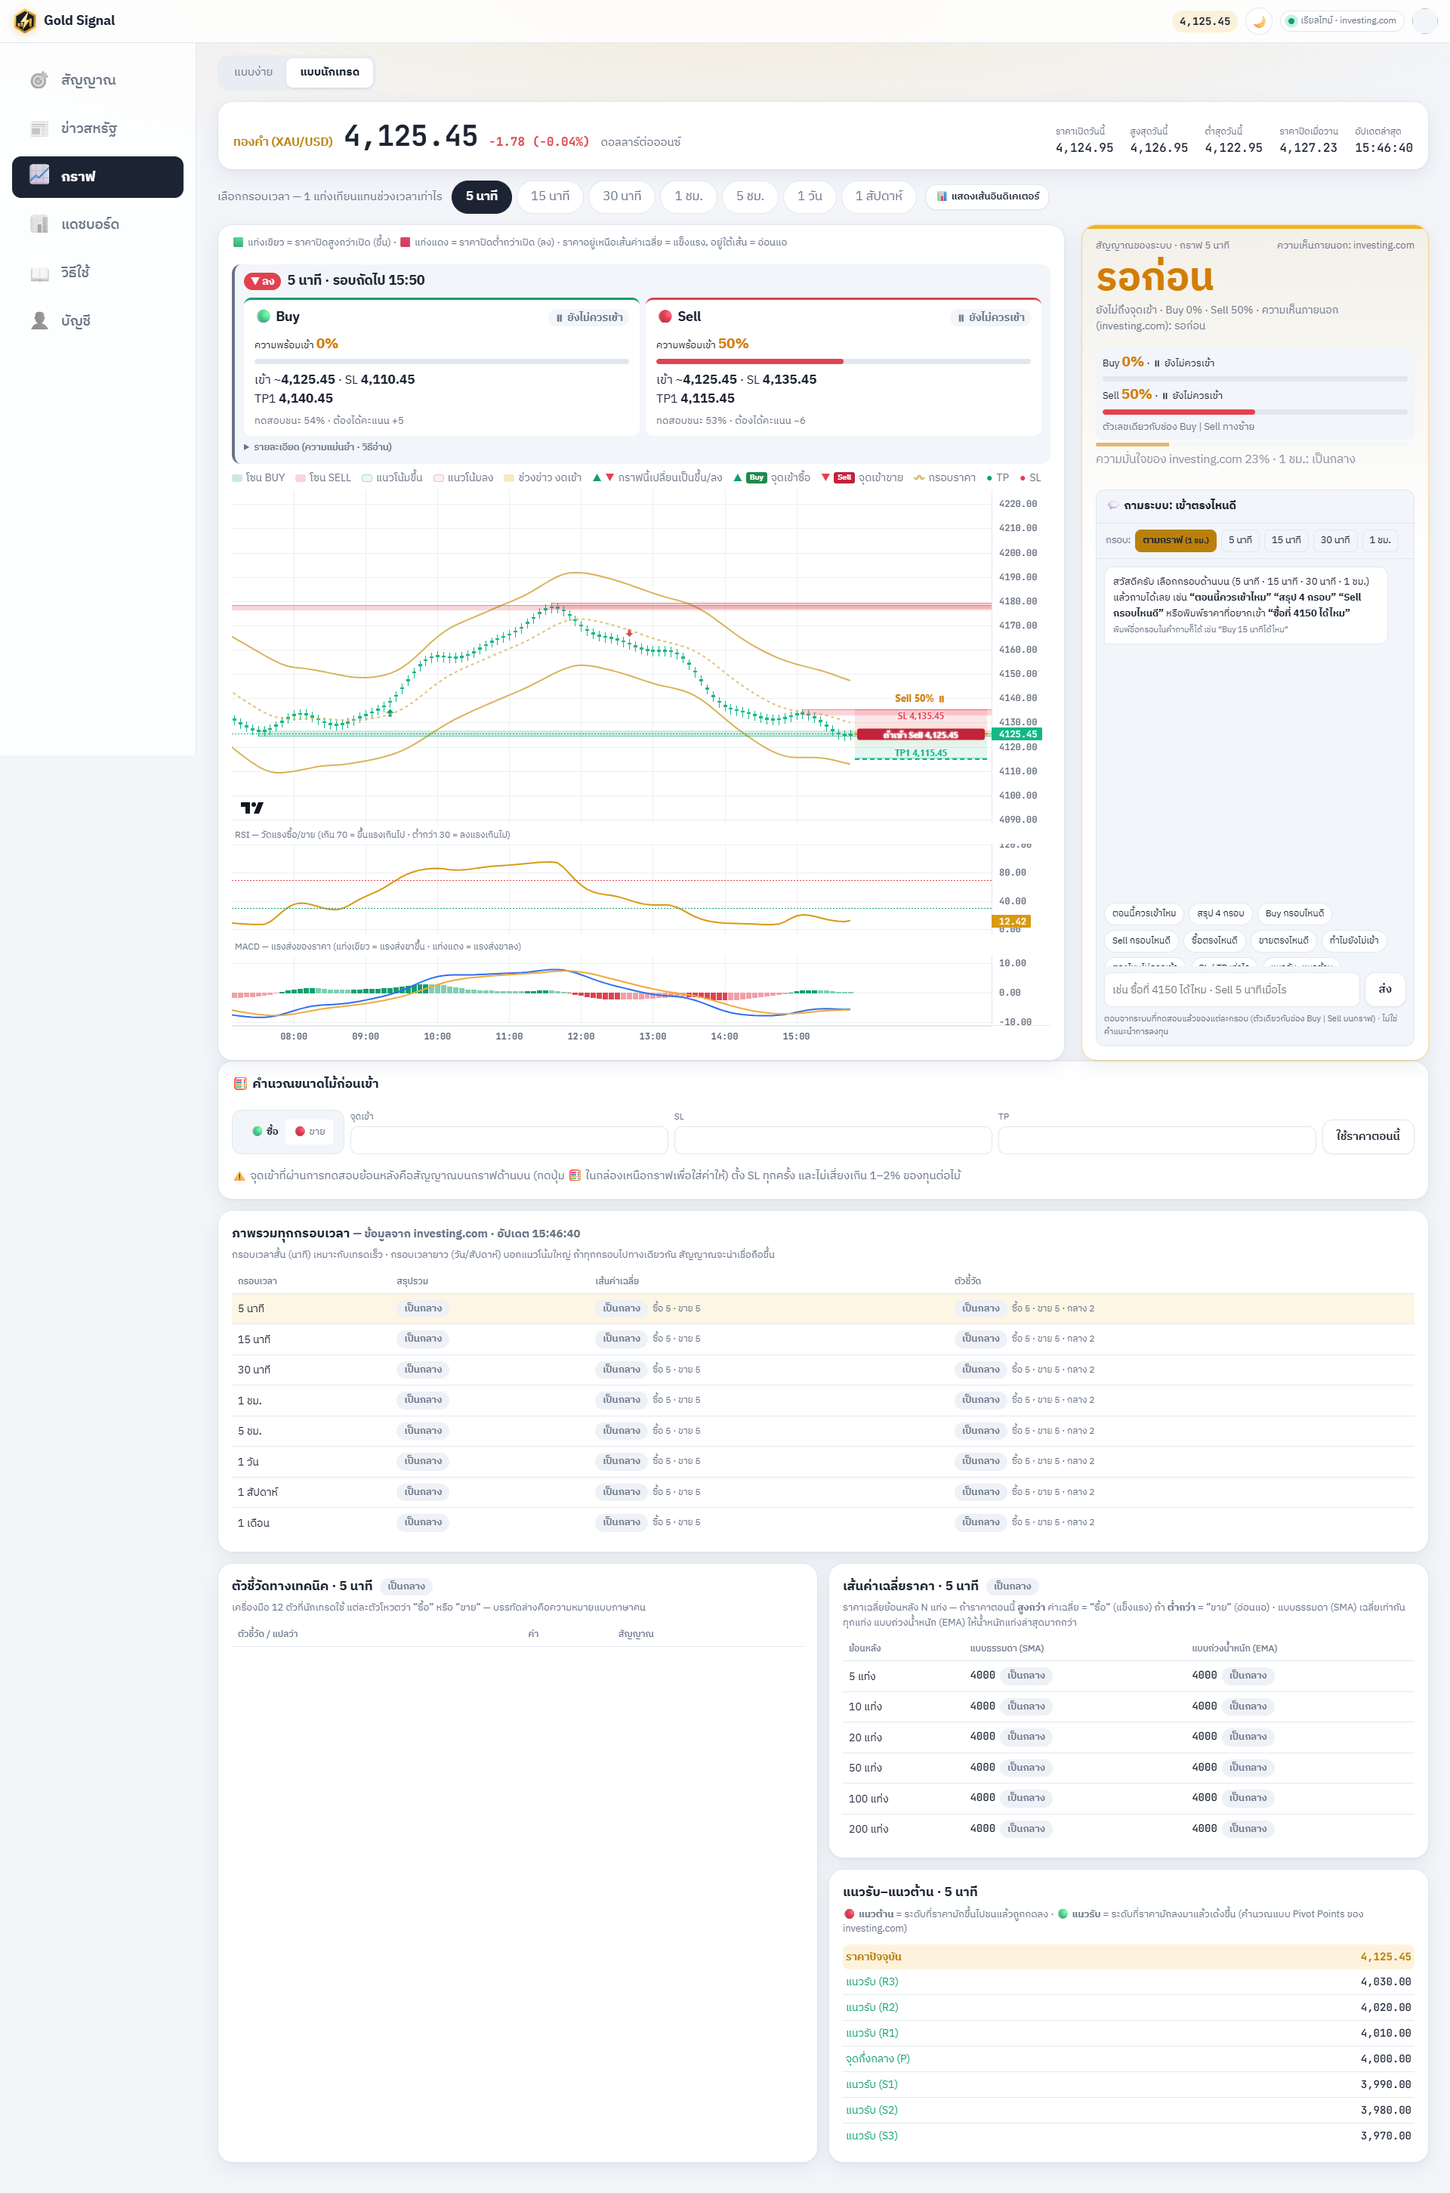
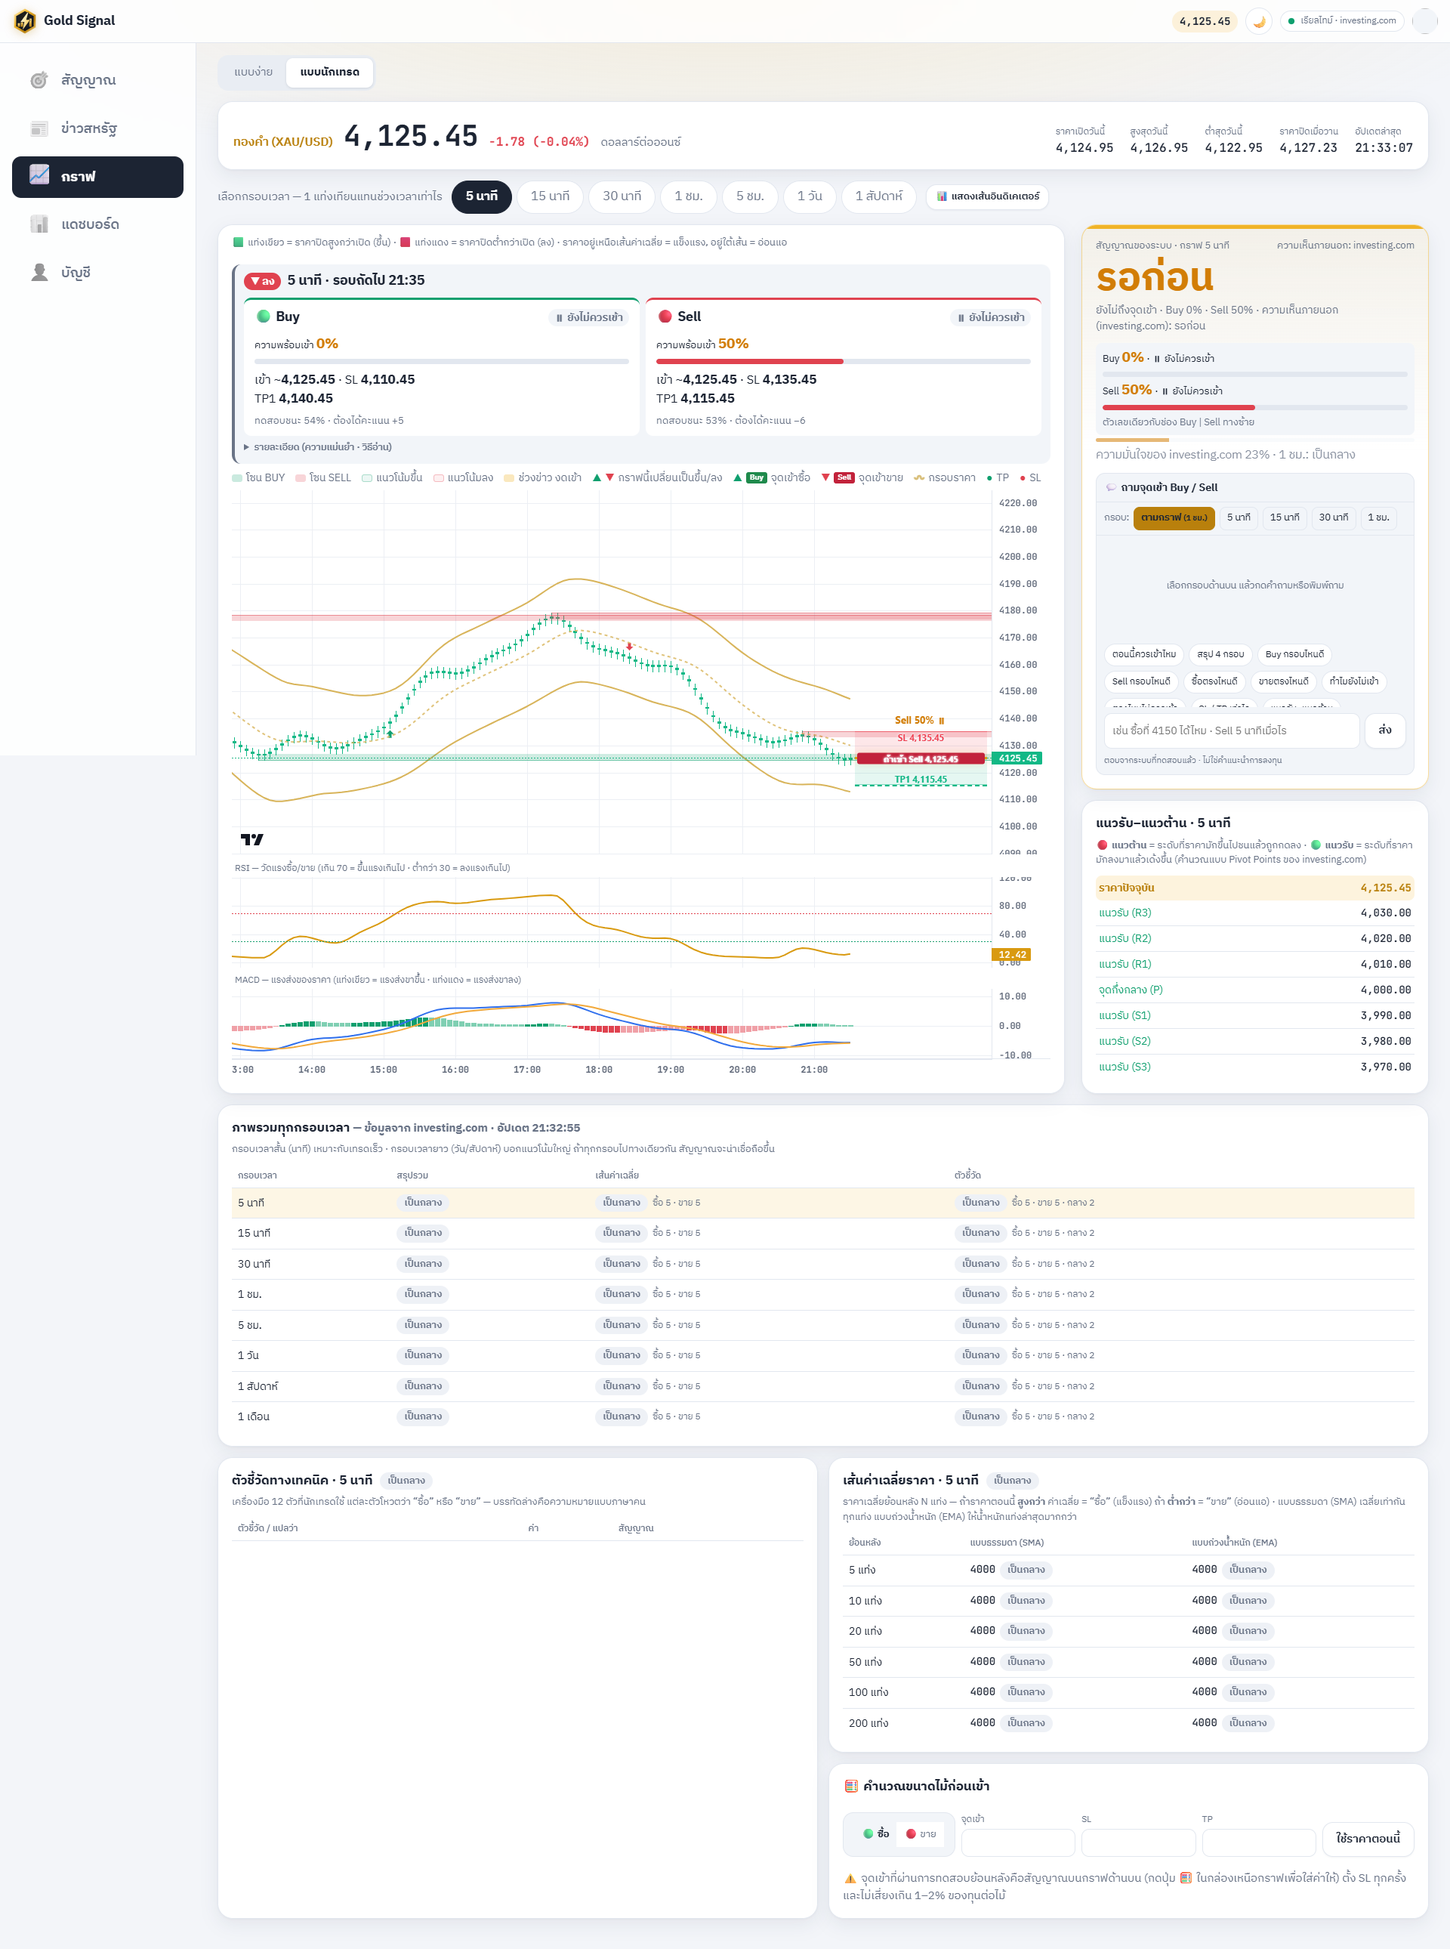
Compact chart chat (no greeting, 400px); support/resistance back under the signal card, lot calculator under moving averages

diff --git a/index.html b/index.html
@@ -17,7 +17,7 @@
   <meta name="apple-mobile-web-app-status-bar-style" content="black-translucent">
   <link rel="preconnect" href="https://fonts.googleapis.com">
   <link href="https://fonts.googleapis.com/css2?family=IBM+Plex+Sans+Thai:wght@400;500;600;700&family=JetBrains+Mono:wght@500;700&display=swap" rel="stylesheet">
-  <link rel="stylesheet" href="style.css?v=202610122600">
+  <link rel="stylesheet" href="style.css?v=202610122700">
   <link rel="stylesheet" href="live.css?v=202610121500">
   <link rel="stylesheet" href="theme.css?v=202610121500" id="themeLight">
   <script>/* apply the saved theme before the first paint */ try { if (localStorage.getItem("gs-theme") === "dark") { document.getElementById("themeLight").disabled = true; document.querySelector("meta[name=theme-color]").content = "#0d1016"; } } catch (e) {}</script>
@@ -361,22 +361,13 @@
           <ul class="reasons" id="reasons" hidden></ul>
           <ul class="reasons warn" id="warns" hidden></ul>
         </section>
+        <section class="card">
+          <h3>แนวรับ–แนวต้าน · <span id="pvTf">—</span></h3>
+          <p class="hint">🔴 <b>แนวต้าน</b> = ระดับที่ราคามักขึ้นไปชนแล้วถูกกดลง · 🟢 <b>แนวรับ</b> = ระดับที่ราคามักลงมาแล้วเด้งขึ้น (คำนวณแบบ Pivot Points ของ investing.com)</p>
+          <ul class="levels" id="levels"></ul>
+        </section>
       </aside>
     </main>
-
-    <!-- Lot calculator (moved here from the signals tab, 8 Oct; the chart's 🧮 button fills it) -->
-    <section class="card tp calc-card" id="calcCard">
-      <h3>🧮 คำนวณขนาดไม้ก่อนเข้า</h3>
-        <div class="tp-calc" id="tpCalc">
-          <div class="tp-side"><button type="button" class="on" data-side="1">🟢 ซื้อ</button><button type="button" data-side="-1">🔴 ขาย</button></div>
-          <label>จุดเข้า<input id="cEntry" type="number" step="0.01" inputmode="decimal"></label>
-          <label>SL<input id="cSl" type="number" step="0.01" inputmode="decimal"></label>
-          <label>TP<input id="cTp" type="number" step="0.01" inputmode="decimal"></label>
-          <button type="button" class="btn" id="cNow">ใช้ราคาตอนนี้</button>
-          <div class="tp-calc-out" id="cOut"></div>
-        </div>
-        <p class="muted small tp-note">⚠ จุดเข้าที่ผ่านการทดสอบย้อนหลังคือสัญญาณบนกราฟด้านบน (กดปุ่ม 🧮 ในกล่องเหนือกราฟเพื่อใส่ค่าให้) ตั้ง SL ทุกครั้ง และไม่เสี่ยงเกิน 1–2% ของทุนต่อไม้</p>
-    </section>
 
     <section class="card wide-card">
       <h3>ภาพรวมทุกกรอบเวลา <span class="muted small">— ข้อมูลจาก investing.com · <span id="techTime">—</span></span></h3>
@@ -398,7 +389,8 @@
           <tbody></tbody>
         </table>
       </section>
-      <!-- right column: moving averages + support / resistance (moved from the side, 12 Oct: "ทำให้สมดุล ไม่เว้นช่องว่าง") -->
+      <!-- right column: moving averages + lot calculator (12 Oct: the chat in the side card got compact, so support /
+           resistance went back to the side column and the calculator sits here — both rows stay level) -->
       <div class="side">
         <section class="card">
           <h3>เส้นค่าเฉลี่ยราคา · <span class="tfName">—</span> <span class="tag" id="maSum"></span></h3>
@@ -408,10 +400,18 @@
             <tbody></tbody>
           </table>
         </section>
-        <section class="card">
-          <h3>แนวรับ–แนวต้าน · <span id="pvTf">—</span></h3>
-          <p class="hint">🔴 <b>แนวต้าน</b> = ระดับที่ราคามักขึ้นไปชนแล้วถูกกดลง · 🟢 <b>แนวรับ</b> = ระดับที่ราคามักลงมาแล้วเด้งขึ้น (คำนวณแบบ Pivot Points ของ investing.com)</p>
-          <ul class="levels" id="levels"></ul>
+        <!-- Lot calculator (the chart's 🧮 button fills it and scrolls here) -->
+        <section class="card tp calc-card" id="calcCard">
+          <h3>🧮 คำนวณขนาดไม้ก่อนเข้า</h3>
+            <div class="tp-calc" id="tpCalc">
+              <div class="tp-side"><button type="button" class="on" data-side="1">🟢 ซื้อ</button><button type="button" data-side="-1">🔴 ขาย</button></div>
+              <label>จุดเข้า<input id="cEntry" type="number" step="0.01" inputmode="decimal"></label>
+              <label>SL<input id="cSl" type="number" step="0.01" inputmode="decimal"></label>
+              <label>TP<input id="cTp" type="number" step="0.01" inputmode="decimal"></label>
+              <button type="button" class="btn" id="cNow">ใช้ราคาตอนนี้</button>
+              <div class="tp-calc-out" id="cOut"></div>
+            </div>
+            <p class="muted small tp-note">⚠ จุดเข้าที่ผ่านการทดสอบย้อนหลังคือสัญญาณบนกราฟด้านบน (กดปุ่ม 🧮 ในกล่องเหนือกราฟเพื่อใส่ค่าให้) ตั้ง SL ทุกครั้ง และไม่เสี่ยงเกิน 1–2% ของทุนต่อไม้</p>
         </section>
       </div>
     </section>
@@ -520,6 +520,6 @@
   <script src="chartsys.js?v=202610121500"></script>
   <script src="chartzones.js?v=202610122200"></script>
   <script src="newsstats.js?v=202610121500"></script>
-  <script src="chartchat.js?v=202610122100"></script>
+  <script src="chartchat.js?v=202610122700"></script>
 </body>
 </html>

diff --git a/style.css b/style.css
@@ -632,10 +632,10 @@ details.ns-item[open] .ns-open { color: #d99a10; border-color: rgba(240,180,41,.
 .ns-next .ns-open { color: rgba(243,245,249,.8); border-color: rgba(255,255,255,.25); }
 
 /* Chart Q&A chat (chartchat.js) — inside the chart's signal card (simple view: a card under the chart) */
-.cc-panel { margin-top: 14px; display: flex; flex-direction: column; height: 520px; background: var(--panel-2); border: 1px solid var(--line); border-radius: 12px; overflow: hidden; }
+.cc-panel { margin-top: 12px; display: flex; flex-direction: column; height: 400px; background: var(--panel-2); border: 1px solid var(--line); border-radius: 12px; overflow: hidden; }
 .cc-panel.cc-under { margin-top: 16px; background: var(--panel); border-radius: var(--radius); }
-.cc-head { display: flex; align-items: center; gap: 8px; padding: 10px 12px; border-bottom: 1px solid var(--line); }
-.cc-head b { flex: 1; font-size: 15px; }
+.cc-head { display: flex; align-items: center; gap: 8px; padding: 8px 10px; border-bottom: 1px solid var(--line); }
+.cc-head b { flex: 1; font-size: 14px; }
 .cc-log { flex: 1; overflow-y: auto; padding: 10px; display: flex; flex-direction: column; gap: 8px; overscroll-behavior: contain; }
 .cc-msg { max-width: 94%; padding: 9px 11px; border-radius: 12px; font-size: 13px; line-height: 1.6; overflow-wrap: anywhere; }
 .cc-msg.me { align-self: flex-end; background: var(--gold); color: #1c2433; border-bottom-right-radius: 4px; }
@@ -651,7 +651,7 @@ details.ns-item[open] .ns-open { color: #d99a10; border-color: rgba(240,180,41,.
 .cc-form input { flex: 1; min-width: 0; font: inherit; font-size: 14px; color: var(--text); background: var(--panel); border: 1px solid var(--line); border-radius: 10px; padding: 8px 10px; }
 .cc-form input:focus { outline: none; border-color: var(--gold); }
 .cc-foot { margin: 0; padding: 0 10px 10px; font-size: 11px; color: var(--muted); }
-@media (max-width: 899px) { .cc-panel { height: 480px; } .cc-form input { font-size: 16px; } }
+@media (max-width: 899px) { .cc-panel { height: 420px; } .cc-form input { font-size: 16px; } }
 .cc-tfs { display: flex; align-items: center; gap: 6px; padding: 8px 12px; border-bottom: 1px solid var(--line); overflow-x: auto; scrollbar-width: none; font-size: 12.5px; color: var(--muted); }
 .cc-tfs::-webkit-scrollbar { display: none; }
 .cc-tfs button { flex: none; font: inherit; font-size: 12.5px; cursor: pointer; color: var(--text); background: transparent; border: 1px solid var(--line); border-radius: 8px; padding: 5px 9px; }
@@ -667,10 +667,9 @@ details.ns-item[open] .ns-open { color: #d99a10; border-color: rgba(240,180,41,.
   .layout { align-items: stretch; }
   .layout > .charts { display: flex; flex-direction: column; }
   .layout > .charts > .chart-main { flex: 1 1 440px; min-height: 440px; height: auto; }
-  /* …and the other way round: when the chart column is taller, the chat in the signal card takes the extra room */
-  .layout > aside > .signal { flex: 1; display: flex; flex-direction: column; }
-  .layout > aside > .signal > #ccSlot { flex: 1; display: flex; flex-direction: column; }
-  .layout > aside > .signal > #ccSlot > .cc-panel { flex: 1 1 520px; min-height: 520px; height: auto; }
+  /* …and the other way round: when the chart column is taller, the support / resistance card under the (compact) chat
+     takes the extra room */
+  .layout > aside > .card:last-child { flex: 1; }
 }
 .layout2 > .side > .card:last-child { flex: 1; } /* right column ends level with the indicator table */
 .plan:empty { display: none; } /* ATR box removed (12 Oct) — no empty gap when there are no zones */
@@ -687,3 +686,8 @@ details.ns-item[open] .ns-open { color: #d99a10; border-color: rgba(240,180,41,.
 .sp-chips li.done::before { content: "✓"; width: auto; height: auto; background: none; font-weight: 800; color: var(--up); }
 @keyframes chipPulse { 50% { opacity: .3; transform: scale(.7); } }
 @media (prefers-reduced-motion: reduce) { .sp-chips, .sp-chips li.on::before { animation: none; } }
+.cc-log:empty { justify-content: center; }
+.cc-log:empty::before { content: "เลือกกรอบด้านบน แล้วกดคำถามหรือพิมพ์ถาม"; color: var(--muted); font-size: 12.5px; text-align: center; }
+.cc-tfs { padding: 6px 10px; }
+/* lot calculator in the lower row's right column (half width): results in 3 columns */
+.layout2 .tp-calc-out { grid-template-columns: repeat(3, minmax(0, 1fr)); }

diff --git a/chartchat.js b/chartchat.js
@@ -25,12 +25,12 @@
   if (!slot) return;
   slot.insertAdjacentHTML('beforeend', `
     <section class="cc-panel" id="ccPanel" aria-label="แชทถามจุดเข้า">
-      <header class="cc-head"><b>💬 ถามระบบ: เข้าตรงไหนดี</b></header>
+      <header class="cc-head"><b>💬 ถามจุดเข้า Buy / Sell</b></header>
       <div class="cc-tfs" id="ccTfs" role="group" aria-label="ถามกรอบเวลา"><span>กรอบ:</span><button type="button" data-tf="">ตามกราฟ <small id="ccScreen"></small></button>${CHAT_TFS.map((t) => `<button type="button" data-tf="${t}">${nameOf(t)}</button>`).join('')}</div>
       <div class="cc-log" id="ccLog" aria-live="polite"></div>
       <div class="cc-quick" id="ccQuick">${QUICK.map(([t, k]) => `<button type="button" data-q="${k}">${t}</button>`).join('')}</div>
       <form class="cc-form" id="ccForm"><input id="ccIn" autocomplete="off" placeholder="เช่น ซื้อที่ 4150 ได้ไหม · Sell 5 นาทีเมื่อไร"><button type="submit" class="btn">ส่ง</button></form>
-      <p class="cc-foot">ตอบจากระบบที่ทดสอบแล้วของแต่ละกรอบ (ตัวเดียวกับช่อง Buy | Sell บนกราฟ) · ไม่ใช่คำแนะนำการลงทุน</p>
+      <p class="cc-foot">ตอบจากระบบที่ทดสอบแล้ว · ไม่ใช่คำแนะนำการลงทุน</p>
     </section>`);
   const log = $('ccLog'), panel = $('ccPanel');
 
@@ -43,10 +43,6 @@
     $('ccScreen').textContent = `(${nameOf(state.tf)})`;
     $('ccTfs').querySelectorAll('button').forEach((b) => b.classList.toggle('on', b.dataset.tf === target));
   }
-  function greet() {
-    paintTfs();
-    if (!log.children.length) say('bot', `สวัสดีครับ เลือกกรอบด้านบน (5 นาที · 15 นาที · 30 นาที · 1 ชม.) แล้วถามได้เลย เช่น <b>“ตอนนี้ควรเข้าไหม”</b> <b>“สรุป 4 กรอบ”</b> <b>“Sell กรอบไหนดี”</b> หรือพิมพ์ราคาที่อยากเข้า <b>“ซื้อที่ ${nowPrice() ? Math.round(nowPrice() - 10) : 4150} ได้ไหม”</b><br><small>พิมพ์ชื่อกรอบในคำถามก็ได้ เช่น “Buy 15 นาทีได้ไหม”</small>`);
-  }
   // pro view: in the signal card · simple view: under the chart
   function place() {
     const pro = $('chartPro'), simple = $('chartSimple');
@@ -56,7 +52,7 @@
   }
   [$('chartPro'), $('chartSimple')].filter(Boolean).forEach((el) => new MutationObserver(place).observe(el, { attributes: true, attributeFilter: ['hidden'] }));
   place();
-  greet();
+  paintTfs(); // no greeting message (user, 12 Oct: "เอาอันนี้ออก ให้กล่องถามตอบกระชับขึ้น") — an empty log shows one short hint (CSS)
   $('ccTfs').addEventListener('click', (e) => { const b = e.target.closest('button[data-tf]'); if (!b) return; target = b.dataset.tf; paintTfs(); });
   $('ccQuick').addEventListener('click', (e) => { const b = e.target.closest('button[data-q]'); if (b) ask(b.textContent, b.dataset.q); });
   $('ccForm').addEventListener('submit', (e) => { e.preventDefault(); const t = $('ccIn').value.trim(); if (!t) return; $('ccIn').value = ''; ask(t); });

diff --git a/compare.html b/compare.html
@@ -39,6 +39,15 @@
   <p class="lead">สิ่งที่เปลี่ยนในแต่ละรอบของ Gold Signal · <a href="./">กลับไปที่เว็บ</a></p>
 
   <section>
+    <h2>💬 กล่องถามตอบกระชับขึ้น · จัดการ์ดใหม่ให้หน้ายังสมดุล</h2>
+    <p class="date">12 ต.ค. 2569</p>
+    <div class="pair">
+      <div class="side old text"><h3>🕰 แบบเก่า</h3><ul><li>แชทมีข้อความต้อนรับยาว และยืดสูงเต็มคอลัมน์ (~750px)</li><li>เครื่องคำนวณไม้กว้างเต็มจอ ช่องกรอกยาวเกิน</li></ul></div>
+      <div class="side new"><h3>✨ แบบใหม่ — แชท 400px · แนวรับ–ต้านใต้การ์ด · เครื่องคำนวณใต้เส้นค่าเฉลี่ย</h3><img loading="lazy" src="compare/balance-1920.png" alt="ใหม่"></div>
+    </div>
+  </section>
+
+  <section>
     <h2>⏳ หน้าโหลดแบบพอดี — คำโปรยสั้น · % · ชิป 3 ขั้น</h2>
     <p class="date">12 ต.ค. 2569</p>
     <div class="pair">
